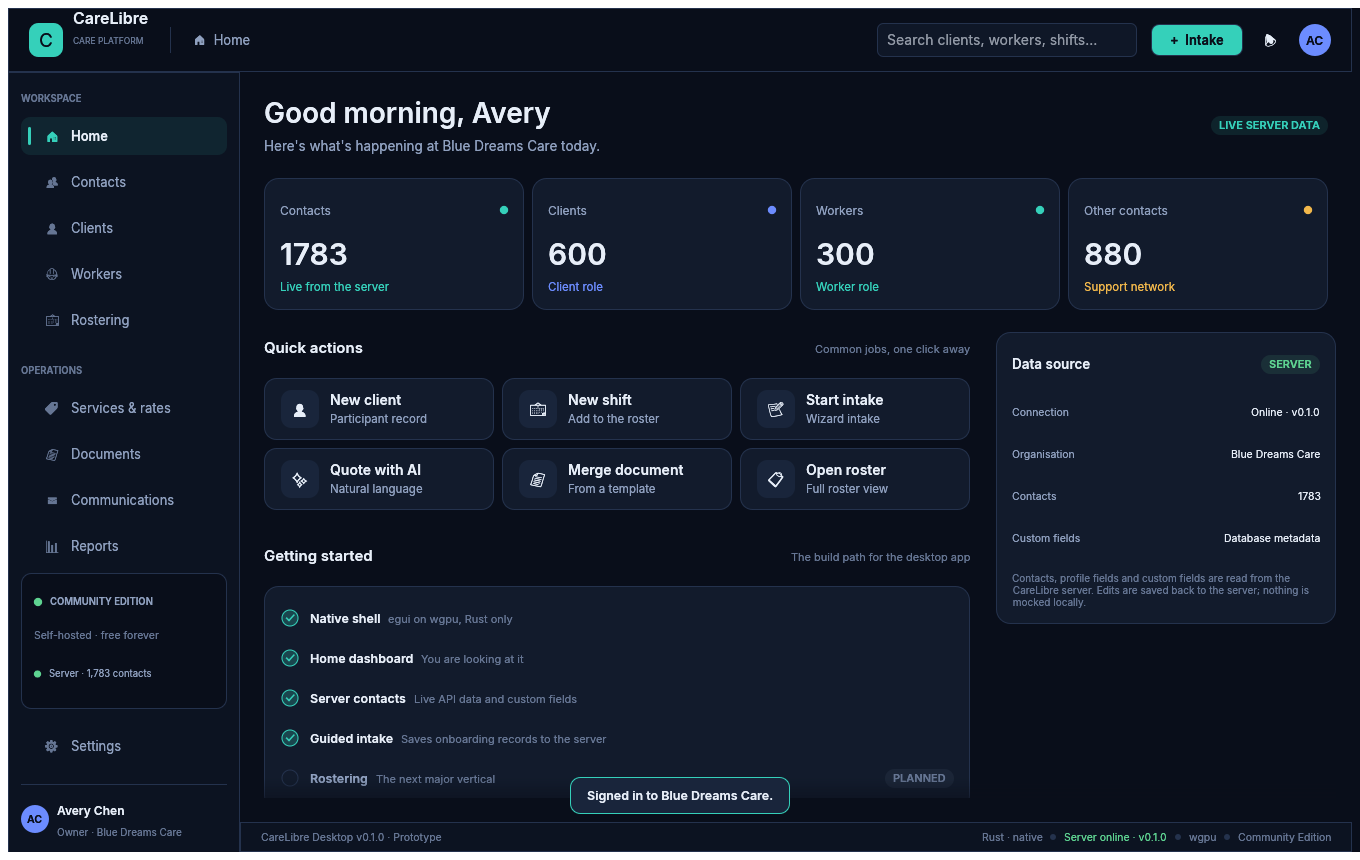
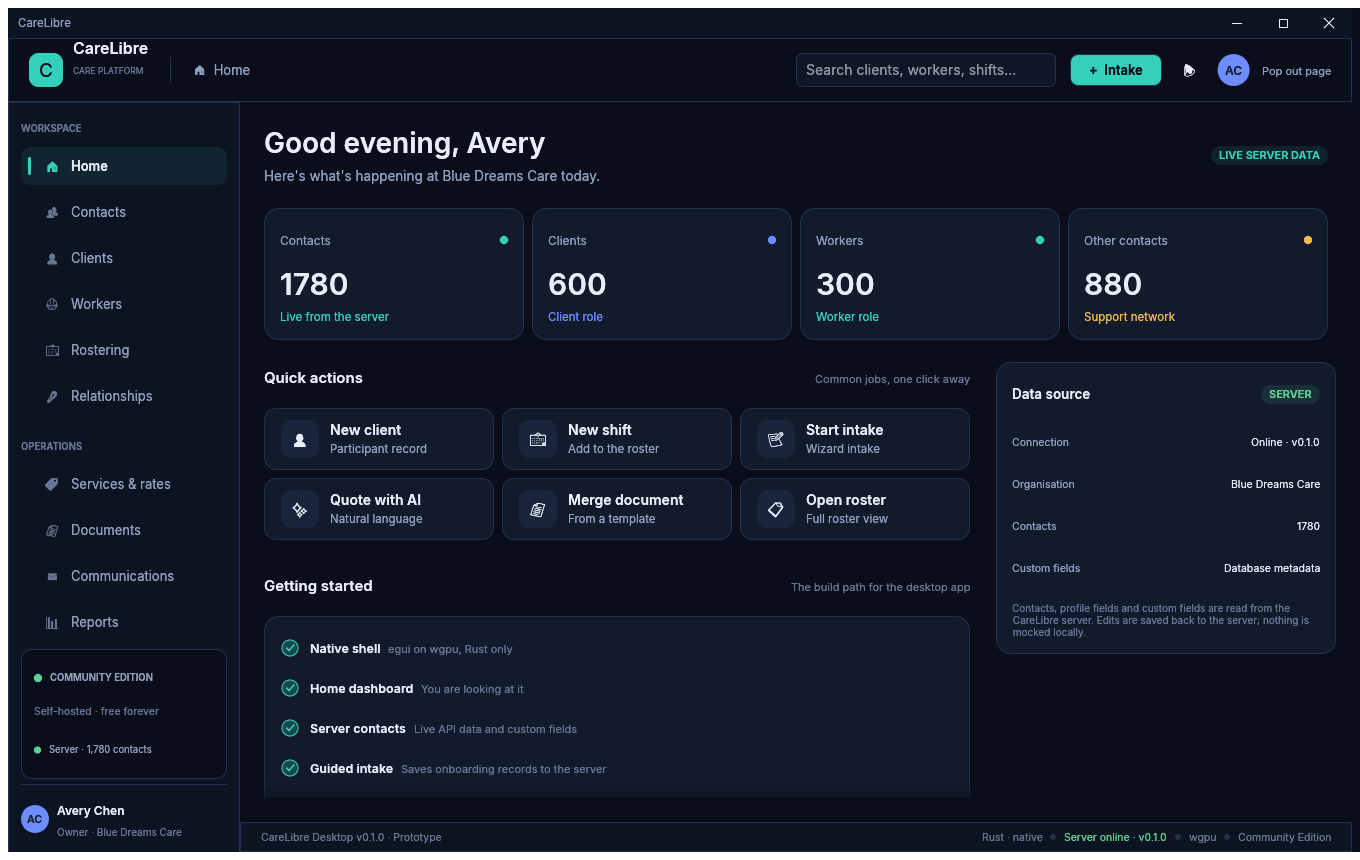
Refresh README screenshots as a thumbnail gallery
- Regenerate the home, contact-record and rostering screenshots from the
  current live app in dark mode
- Show three clickable 300px thumbnails in the README, each linking to the
  full-size screenshot, instead of the full-size image stack
- Update the prototype status copy to include timeline rostering and
  page pop-out
- Let the headless screenshot tooler suppress transient sign-in toasts and
  optionally scroll a contact record to its relationships

diff --git a/examples/screenshot.rs b/examples/screenshot.rs
@@ -55,6 +55,7 @@ fn main() {
             .map(|(email, password)| (email.to_owned(), password.to_owned()))
     });
     let suitability = args.iter().any(|arg| arg == "--suitability");
+    let relationships = args.iter().any(|arg| arg == "--relationships");
     let intake = args.iter().find_map(|arg| match arg.as_str() {
         "--intake=client" => Some(IntakeKind::Client),
         "--intake=worker" => Some(IntakeKind::Worker),
@@ -121,6 +122,18 @@ fn main() {
             }
         }
 
+        if page == Page::Home && login.is_some() {
+            // Load a contact page once so the dashboard counts are populated.
+            harness.state_mut().set_page(Page::Contacts);
+            let deadline = Instant::now() + Duration::from_secs(10);
+            while harness.state().contacts_loaded() == 0 && Instant::now() < deadline {
+                harness.run();
+                std::thread::sleep(Duration::from_millis(25));
+            }
+            harness.state_mut().set_page(Page::Home);
+            harness.run();
+        }
+
         if matches!(page, Page::Clients | Page::Workers | Page::Contacts) {
             let deadline = Instant::now() + Duration::from_secs(5);
             while harness.state().contacts_loaded() == 0 && Instant::now() < deadline {
@@ -168,9 +181,21 @@ fn main() {
                 harness.run();
                 std::thread::sleep(Duration::from_millis(25));
             }
+            if relationships {
+                let deadline = Instant::now() + Duration::from_secs(10);
+                while harness.state().relationship_count() == 0 && Instant::now() < deadline {
+                    harness.run();
+                    std::thread::sleep(Duration::from_millis(25));
+                }
+                harness
+                    .get_by_label_contains("Add relationship")
+                    .scroll_to_me();
+                harness.run();
+            }
         }
     }
 
+    harness.state_mut().dismiss_notice();
     if perf {
         harness.run();
         harness.key_press(egui::Key::F12);

diff --git a/src/app.rs b/src/app.rs
@@ -332,6 +332,11 @@ impl CareLibreApp {
         self.settings.client_side_decorations = enabled;
     }
 
+    /// Clear transient notifications for headless screenshots.
+    pub fn dismiss_notice(&mut self) {
+        self.notice = None;
+    }
+
     /// Change the appearance for previews/tests without persisting it.
     pub fn set_theme_mode(&mut self, mode: theme::ThemeMode) {
         self.config.theme = mode;

diff --git a/README.md b/README.md
@@ -10,25 +10,17 @@ open-source care management platform for disability and aged care providers.
 > draggable tabs — each can be reordered, closed or popped out into a native free-floating
 > window. Edits, custom-field values and linked relationships are saved back to the server.
 > Guided intake wizards persist drafts locally and create onboarding contacts on the server.
-> Rostering, services, documents and communications are next.
+> Rostering is live with a worker/client timeline, recurrence and explainable suitability, and
+> every workspace page can pop out into its own native window. Services, documents and
+> communications are next.
 
-![CareLibre home screen](docs/home.png)
-
-![CareLibre virtualised contacts](docs/contacts.png)
-
-![CareLibre server settings](docs/settings.png)
-
-![CareLibre intake picker](docs/intake.png)
-
-![CareLibre client intake wizard](docs/intake-client.png)
-
-![CareLibre contact editor with custom fields](docs/contact-editor.png)
-
-![CareLibre relationship network](docs/relationships.png)
-
-![CareLibre rostering](docs/rostering.png)
-
-![CareLibre client-side window chrome](docs/client-side.png)
+<table>
+  <tr>
+    <td align="center"><a href="docs/home.png"><img src="docs/thumbs/home.png" alt="CareLibre home dashboard"></a><br><sub><b>Home</b> — live workload at a glance</sub></td>
+    <td align="center"><a href="docs/contact-editor.png"><img src="docs/thumbs/contact-editor.png" alt="CareLibre contact record and linked relationships"></a><br><sub><b>Records</b> — docked, with linked relationships</sub></td>
+    <td align="center"><a href="docs/rostering.png"><img src="docs/thumbs/rostering.png" alt="CareLibre rostering timeline"></a><br><sub><b>Rostering</b> — timeline by worker or client</sub></td>
+  </tr>
+</table>
 
 ## Design principles
 
